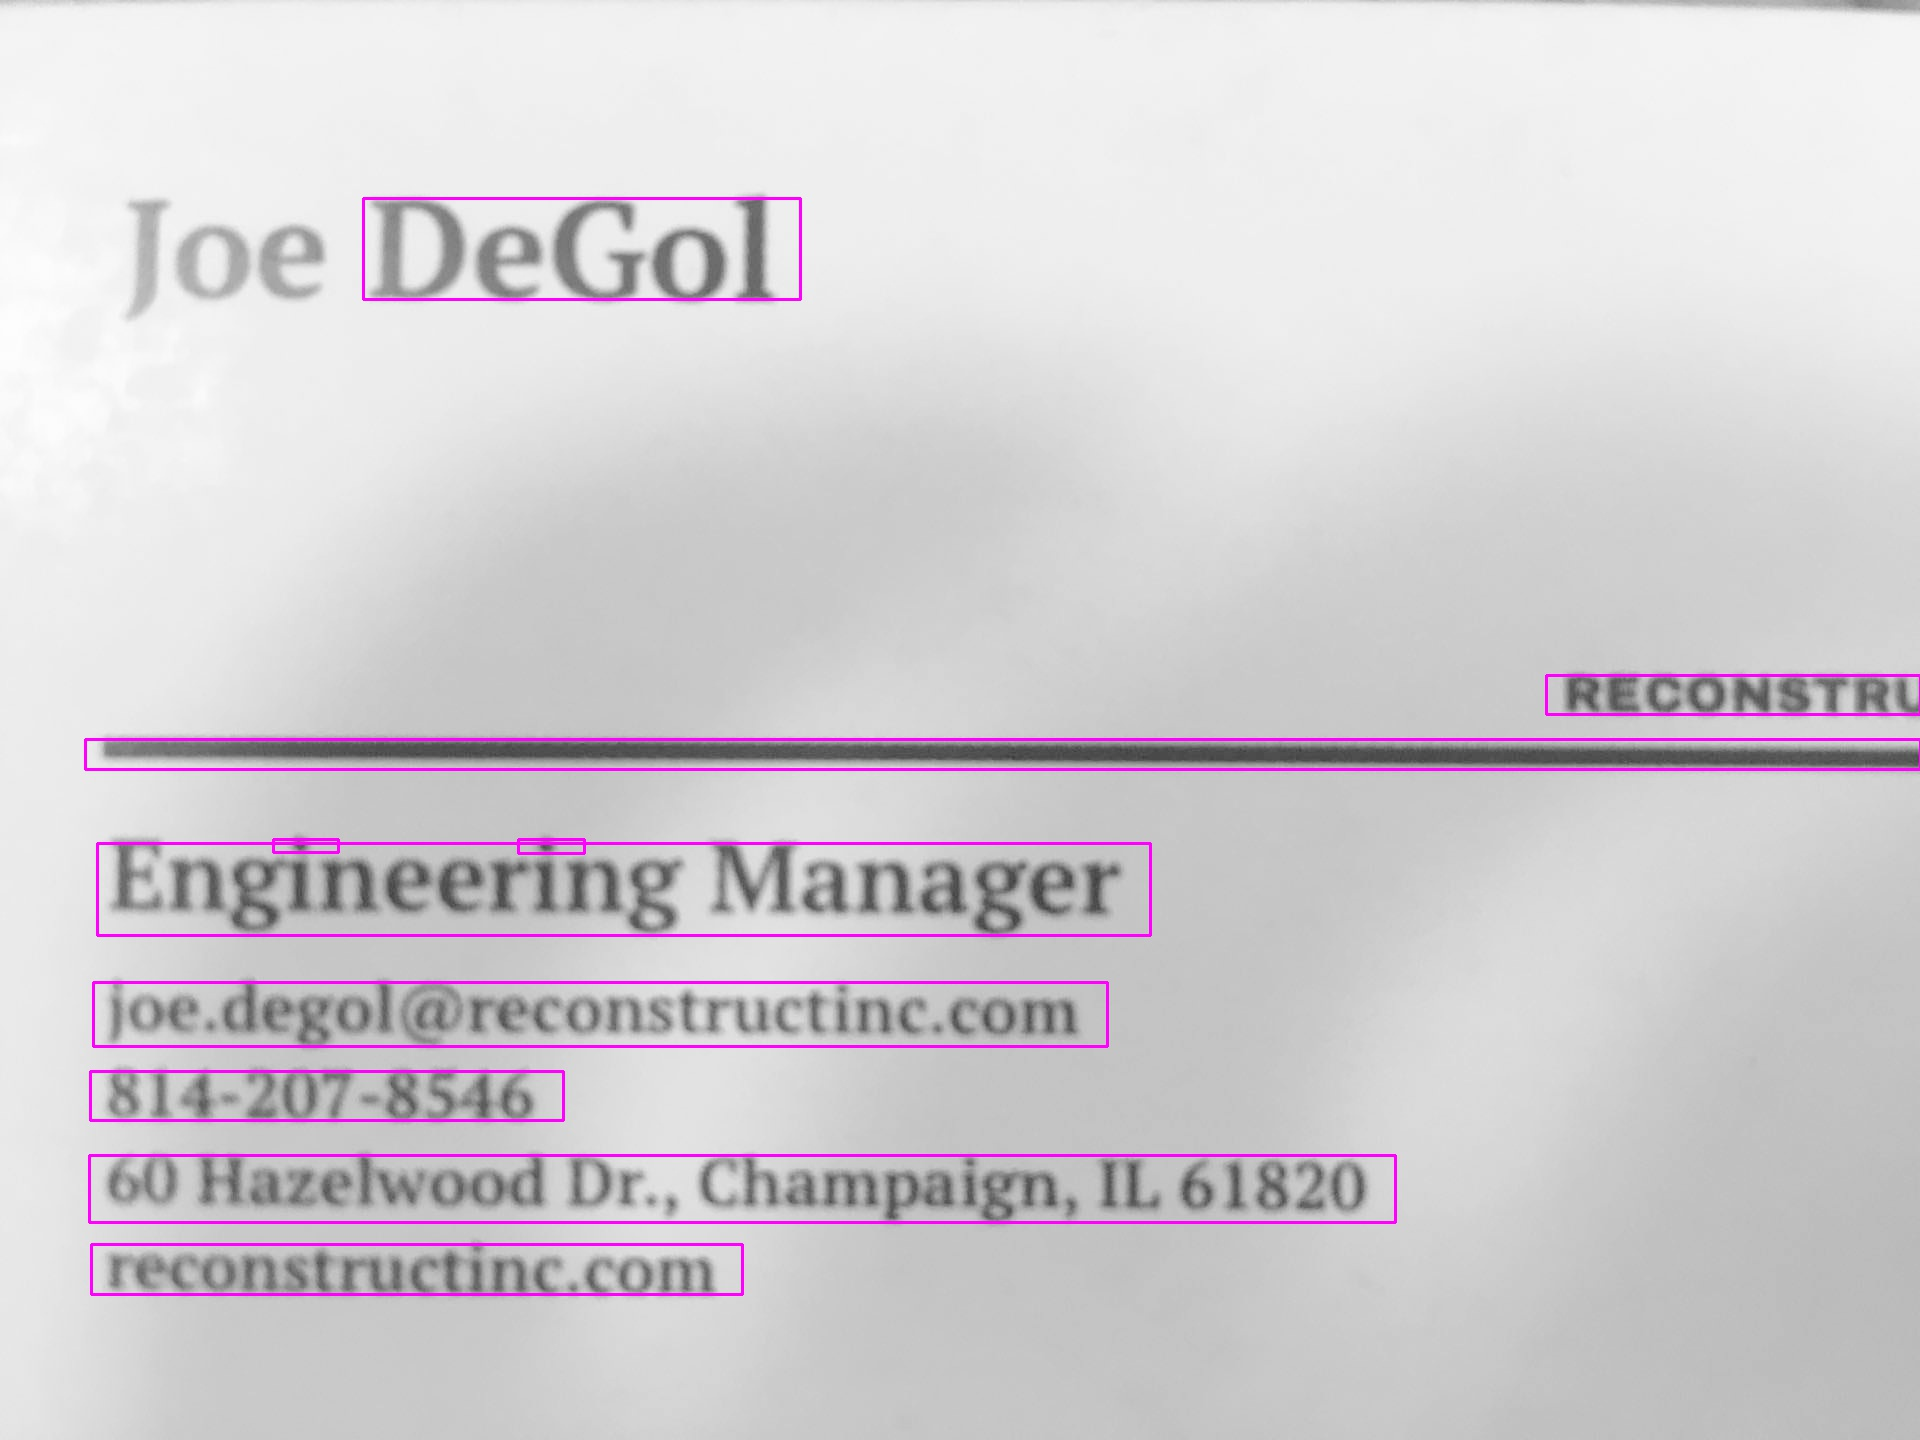
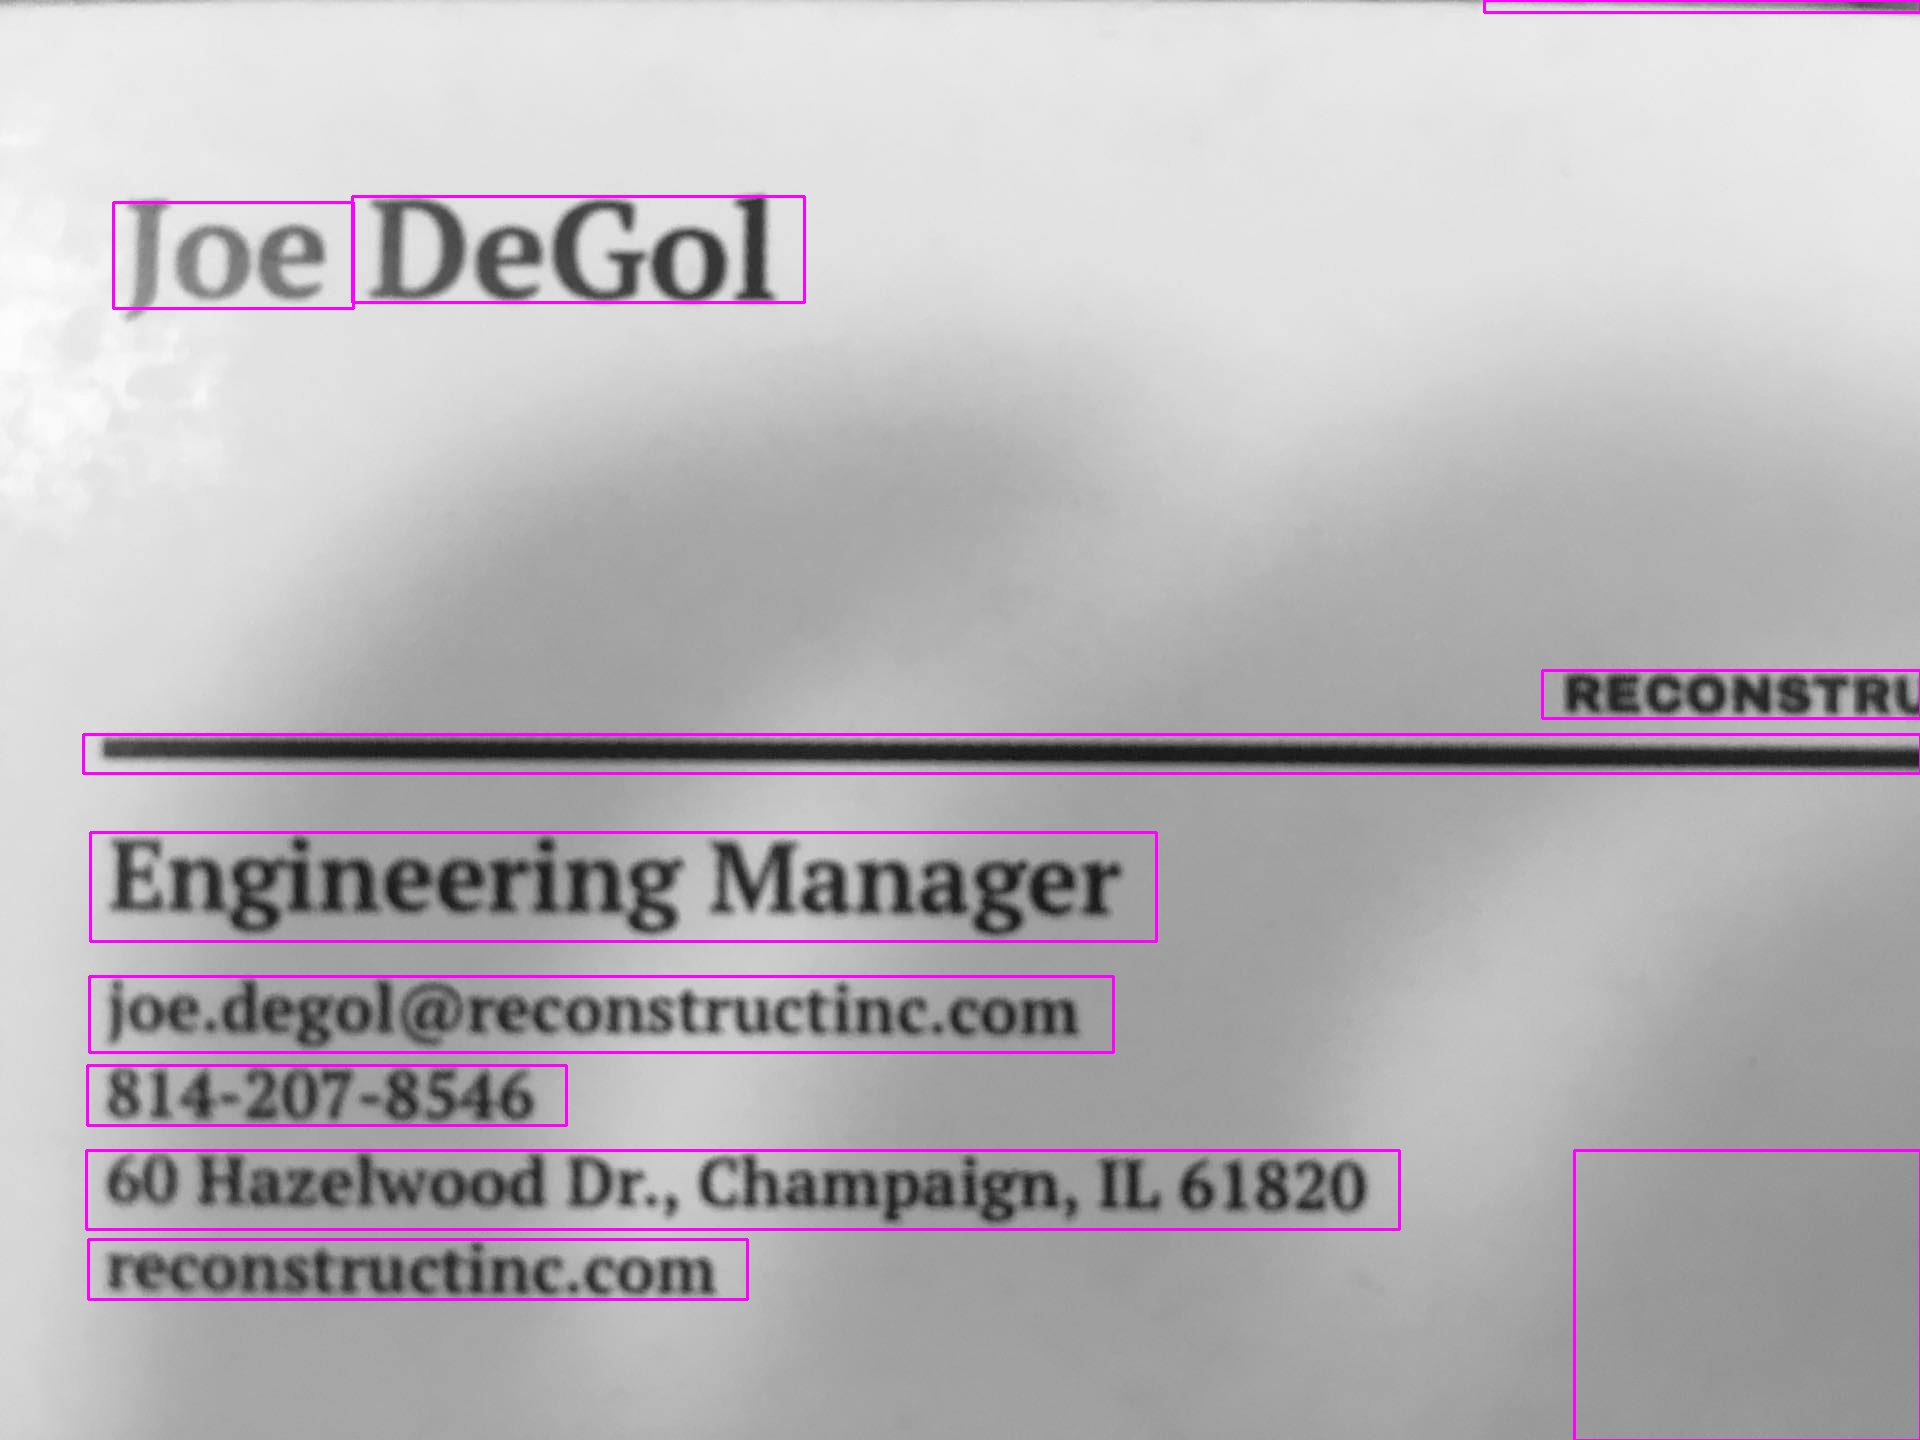
updated testfile

diff --git a/test.py b/test.py
@@ -15,24 +15,30 @@ Simple and fast image transforms to mimic:
 '''
 
 import cv2
+import sys
 from pylab import array, plot, show, axis, arange, figure, uint8 
 
 # Image data
-image = cv2.imread('./input/card.jpg',0) # load as 1-channel 8bit grayscale
+if (len(sys.argv) < 2):
+  print(' (ERROR) You must call this script with an argument (path_to_image_to_be_processed)\n')
+  quit()
+
+file_name = str(sys.argv[1])
+image = cv2.imread(file_name,0) # load as 1-channel 8bit grayscale
 maxIntensity = 255.0 # depends on dtype of image data
 x = arange(maxIntensity) 
 
 # Parameters for manipulating image data
-phi = 0
+phi = 1
 theta = 1
 
 # Increase intensity such that
 # dark pixels become much brighter, 
 # bright pixels become slightly bright
-newImage0 = (maxIntensity/phi)*(image/(maxIntensity/theta))**0.5
+newImage0 = (maxIntensity/phi)*(image/(maxIntensity/theta))**0.9
 newImage0 = array(newImage0,dtype=uint8)
 
-cv2.imshow('newImage0',newImage0)
+#cv2.imshow('newImage0',newImage0)
 cv2.imwrite('./input/newImage0.jpg',newImage0)
 
 y = (maxIntensity/phi)*(x/(maxIntensity/theta))**0.5
@@ -43,7 +49,7 @@ y = (maxIntensity/phi)*(x/(maxIntensity/theta))**0.5
 newImage1 = (maxIntensity/phi)*(image/(maxIntensity/theta))**2
 newImage1 = array(newImage1,dtype=uint8)
 
-cv2.imshow('newImage1',newImage1)
+#cv2.imshow('newImage1',newImage1)
 cv2.imwrite('./input/newImage1.jpg',newImage1)
 
 
@@ -51,12 +57,12 @@ z = (maxIntensity/phi)*(x/(maxIntensity/theta))**2
 
 # Plot the figures
 figure()
-plot(x,y,'r-') # Increased brightness
-plot(x,x,'k:') # Original image
-plot(x,z, 'b-') # Decreased brightness
+#plot(x,y,'r-') # Increased brightness
+#plot(x,x,'k:') # Original image
+#plot(x,z, 'b-') # Decreased brightness
 #axis('off')
-axis('tight')
-show()
+#axis('tight')
+#show()
 
 # Close figure window and click on other window 
 # Then press any keyboard key to close all windows

diff --git a/test1.py b/test1.py
@@ -10,12 +10,16 @@ if (len(sys.argv) < 2):
 
 file_name = str(sys.argv[1])
 image = cv2.imread(file_name)
+# Increase intensity such that
+# dark pixels become much brighter, 
+# bright pixels become slightly bright
+
 gray = cv2.cvtColor(image,cv2.COLOR_BGR2GRAY) # grayscale
 _,thresh = cv2.threshold(gray,150,255,cv2.THRESH_BINARY_INV) # threshold
 kernel = cv2.getStructuringElement(cv2.MORPH_CROSS,(6,1))
 dilated = cv2.dilate(thresh,kernel,iterations = 10) # dilate
 
-img,contours, hierarchy = cv2.findContours(dilated,cv2.RETR_EXTERNAL,cv2.CHAIN_APPROX_NONE) # get contours
+img,contours,hierarchy = cv2.findContours(dilated,cv2.RETR_EXTERNAL,cv2.CHAIN_APPROX_NONE) # get contours
 
 
 # for each contour found, draw a rectangle around it on original image
@@ -37,7 +41,7 @@ for contour in contours:
     if h<10 or w<10:
 	   continue
     image_out = image[y:y+h,x:x+w]
-    nameid = './output/outfile '+name+' '+str(num)+'.jpg'
+    nameid = './output/outfile'+name+str(num)+'.jpg'
     cv2.imwrite(nameid,image_out)
     num += 1
 
